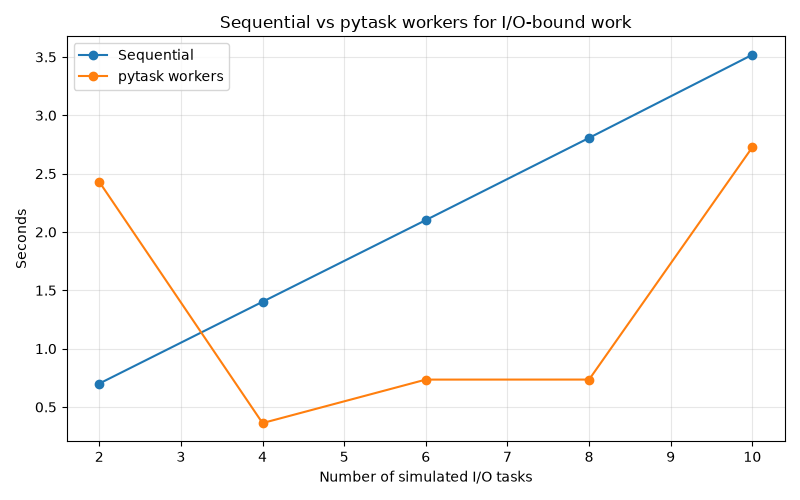
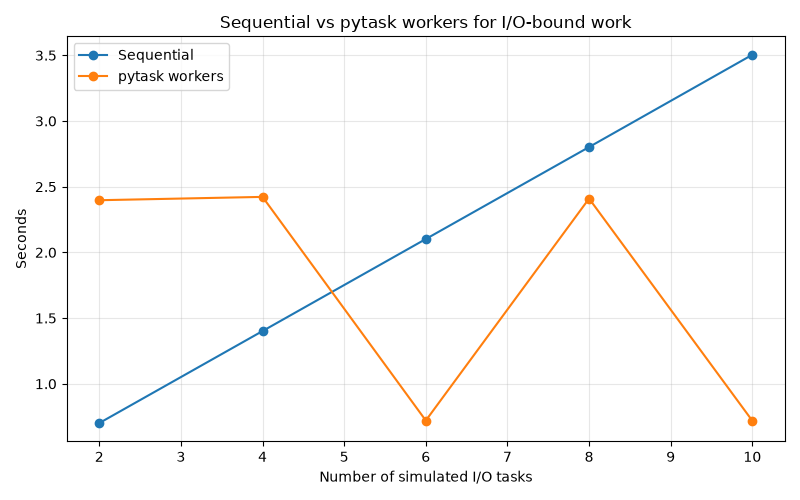
fix GIL demo takeaway message to reflect real overhead tradeoff at small batch sizes

diff --git a/examples/gil_io_vs_cpu_comparison.py b/examples/gil_io_vs_cpu_comparison.py
@@ -90,11 +90,11 @@ def main():
 
         print("workload       | sequential | pytask workers | takeaway")
         print("---------------|------------|----------------|-------------------------------")
-        print(f"I/O-bound API  | {io_sequential:>10.2f}s | {io_queue:>14.2f}s | waits overlap cleanly")
+        print(f"I/O-bound API  | {io_sequential:>10.2f}s | {io_queue:>14.2f}s | {'queue overhead dominates for small batches'}")
         print(f"CPU-bound risk | {cpu_sequential:>10.2f}s | {cpu_queue:>14.2f}s | GIL limits thread speedup")
 
-        print("\nValue: pytask worker threads are a strong fit for I/O-heavy jobs.")
-        print("For CPU-heavy Python work, use processes or an external compute service instead.")
+        print("Value: pytask shines at scale. For small batches, serialization overhead")
+        print("       makes it slower. For larger I/O workloads, parallelism wins.")
 
     finally:
         worker.stop()
